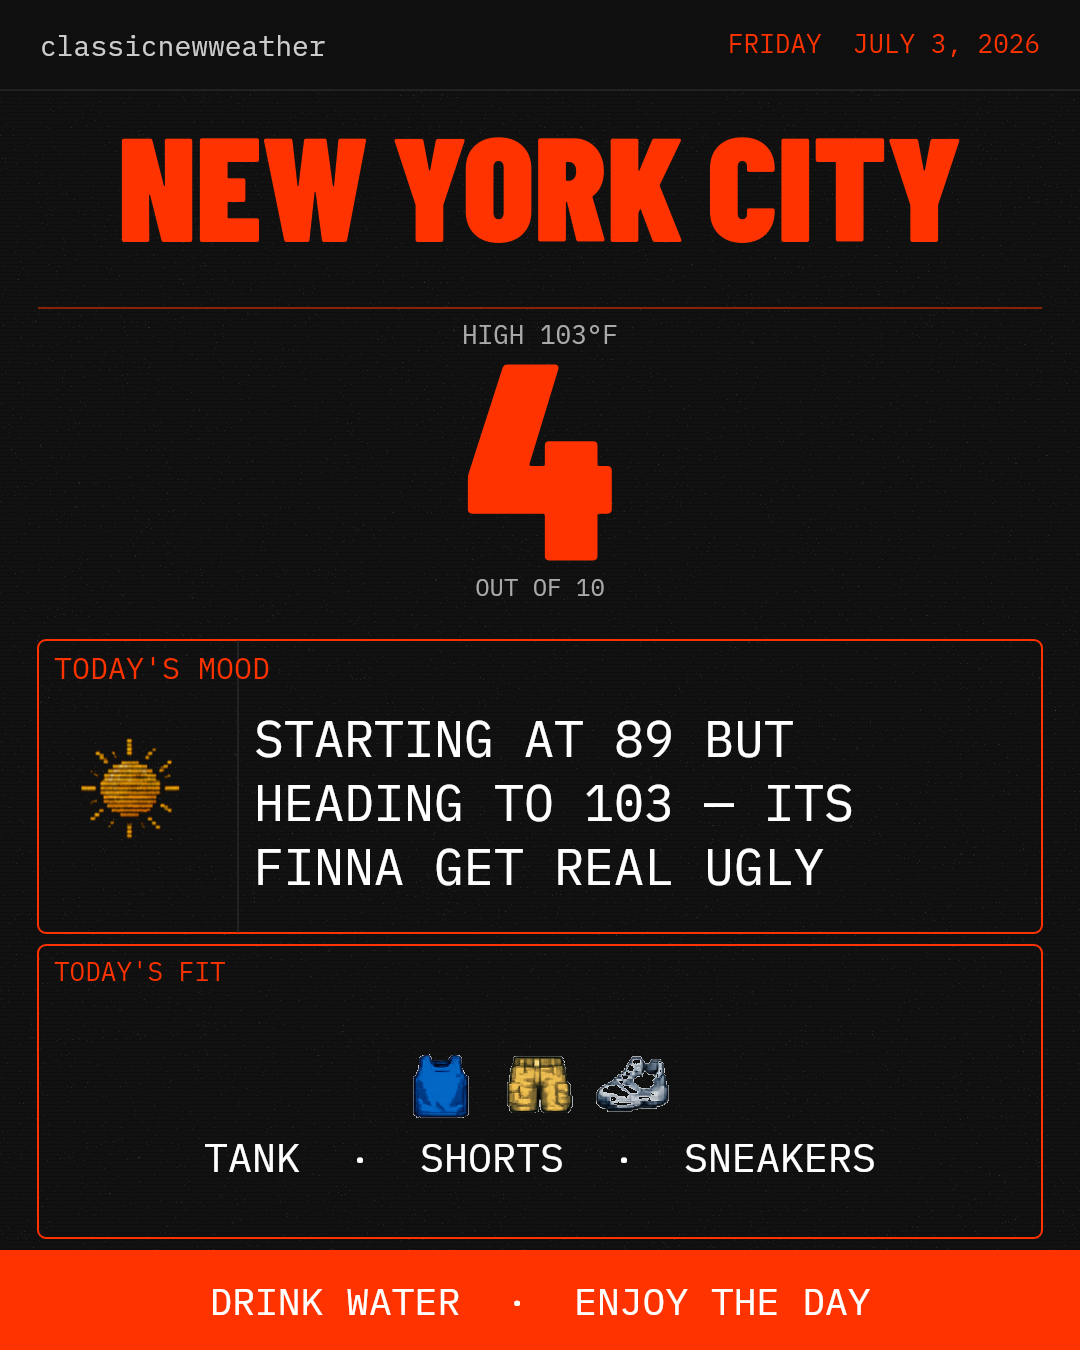
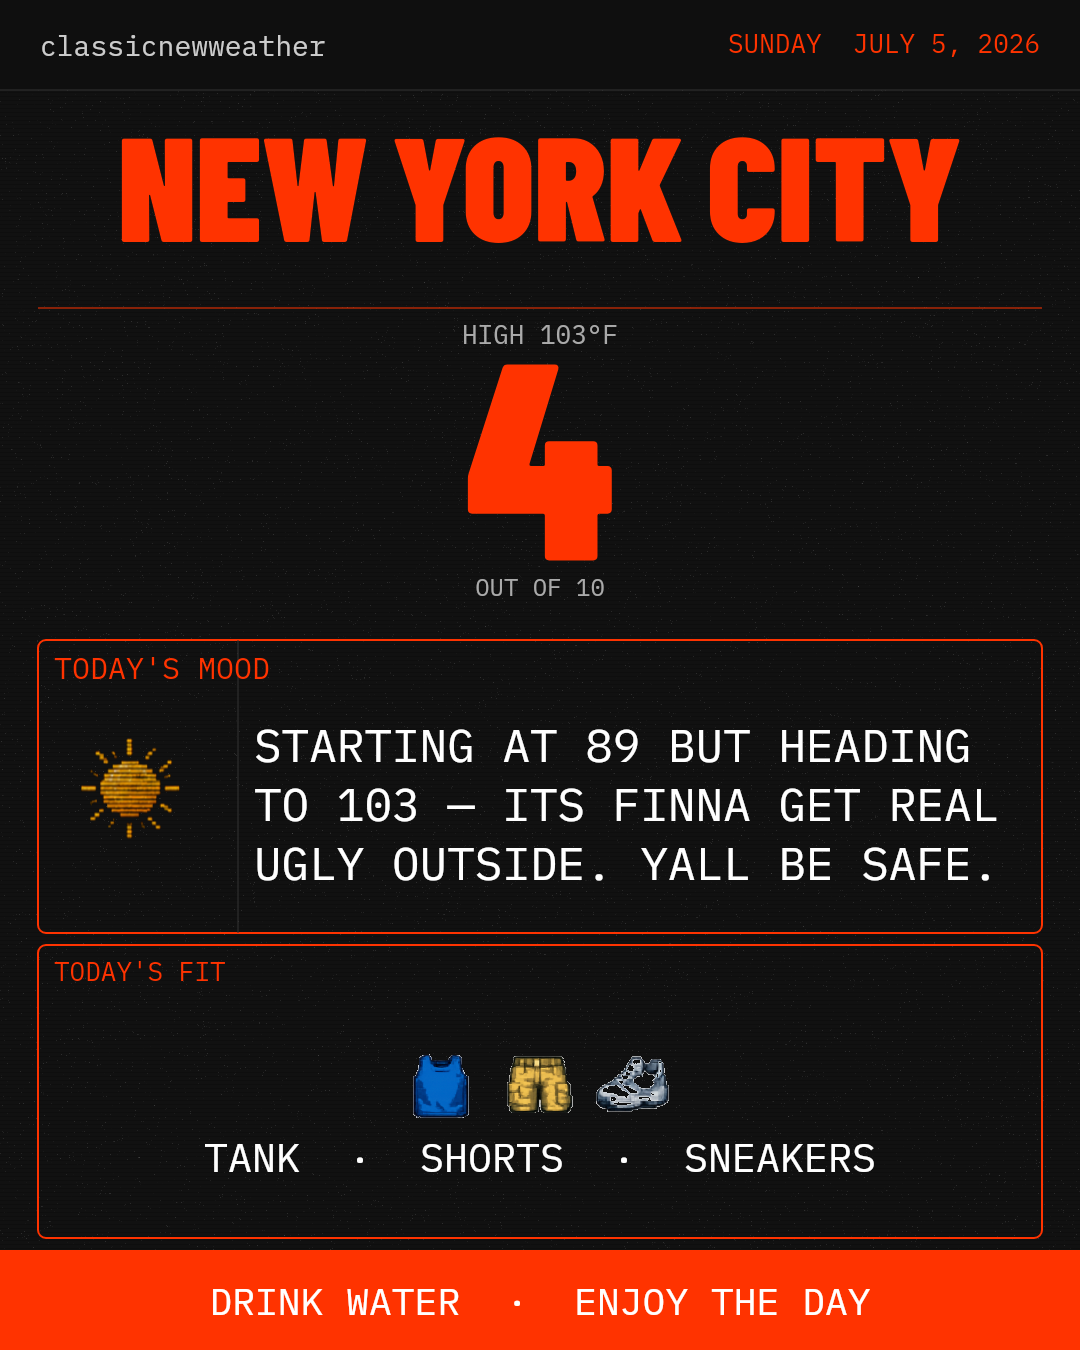
Fix auto-post cron, hair forecast thresholds, and slide 1 text overflow
- Enable IG auto-post cron at 8AM EDT; convert to background function (15min timeout)
- Fix cron auth: detect Netlify scheduled events via next_run, skip password check
- Fix hair forecast thresholds to match research table (55-64%=LOW, 65-74%=MODERATE, etc.)
- Align web app and IG graphic hair thresholds so both show same risk level
- Auto-scale TODAY'S MOOD and TODAY'S FIT text to prevent overflow on slide 1

Changed region(s): [[0.2139, 0.5289, 0.9167, 0.6533], [0.6722, 0.0311, 0.7028, 0.0622]]

diff --git a/netlify/functions/generate-ig-graphic.js b/netlify/functions/generate-ig-graphic.js
@@ -845,13 +845,32 @@ async function drawDailySlide1(row) {
   ctx.textAlign = 'left'; ctx.textBaseline = 'top';
   ctx.fillText("TODAY'S MOOD", px + 16, moodBoxY + 14);
 
-  // Body copy vertically centered in remaining space below label
+  // Body copy vertically centered in remaining space below label — auto-scale font to fit
   const moodBodyMaxW = pw - ICON_W - 28;
-  const MOOD_LINE_H  = 64;
-  ctx.font = '400 50px "IBM Plex Mono"';
   const moodText = (synopsis || 'CLASSICNEWWEATHER.COM').toUpperCase();
-  const maxMoodLines = Math.floor((moodH - MOOD_LABEL_H - 8) / MOOD_LINE_H);
   const moodWords = moodText.split(' ');
+  let moodFontSize = 50;
+  let MOOD_LINE_H = 64;
+  let maxMoodLines = 1;
+
+  // Find largest font size where all text fits within the box height
+  while (moodFontSize >= 24) {
+    MOOD_LINE_H  = Math.round(moodFontSize * 1.28);
+    maxMoodLines = Math.max(1, Math.floor((moodH - MOOD_LABEL_H - 8) / MOOD_LINE_H));
+    ctx.font = `400 ${moodFontSize}px "IBM Plex Mono"`;
+    let line = '', count = 0;
+    for (let n = 0; n < moodWords.length; n++) {
+      const test = line + moodWords[n] + ' ';
+      if (ctx.measureText(test).width > moodBodyMaxW && n > 0) { count++; line = moodWords[n] + ' '; }
+      else { line = test; }
+    }
+    if (line.trim()) count++;
+    if (count <= maxMoodLines) break;
+    moodFontSize -= 2;
+  }
+
+  // Count actual lines used for vertical centering
+  ctx.font = `400 ${moodFontSize}px "IBM Plex Mono"`;
   let moodLine = '', moodLineCount = 0;
   for (let n = 0; n < moodWords.length; n++) {
     const test = moodLine + moodWords[n] + ' ';
@@ -905,11 +924,16 @@ async function drawDailySlide1(row) {
     ctx.drawImage(fic, iconsRowX + i * (FIT_ICON_SZ + FIT_ICON_GAP), iconsRowY);
   });
 
-  // Names — centered below icons
+  // Names — centered below icons, auto-scale to fit
   const fitNamesStr = fitRep.join('  ·  ');
   ctx.fillStyle = '#fff';
-  ctx.font = '400 40px "IBM Plex Mono"';
   ctx.textAlign = 'center'; ctx.textBaseline = 'top';
+  let fitFontSize = 40;
+  ctx.font = `400 ${fitFontSize}px "IBM Plex Mono"`;
+  while (ctx.measureText(fitNamesStr).width > pw - 20 && fitFontSize > 20) {
+    fitFontSize -= 2;
+    ctx.font = `400 ${fitFontSize}px "IBM Plex Mono"`;
+  }
   ctx.fillText(fitNamesStr, px + pw / 2, iconsRowY + FIT_ICON_SZ + 14);
   ctx.textAlign = 'left';
 

diff --git a/admin.html b/admin.html
@@ -1888,20 +1888,12 @@ async function postNow() {
         headers: { 'Content-Type': 'application/json' },
         body: JSON.stringify({ password: ADMIN_PW })
       });
-      const data = await res.json();
-      if (data.error) throw new Error(data.error);
-      if (data.skipped) {
-        status.className = 'ig-queue-status';
-        status.textContent = data.reason;
-        btn.textContent = '▶ Post to IG Now';
-        btn.disabled = false;
-        return;
-      }
+      // Background function — Netlify returns 202 immediately, posts async
       status.className = 'ig-queue-status posted';
-      status.textContent = '✓ posted · feed + story live';
-      btn.textContent = '✓ Posted';
-      captionEl.textContent = data.caption;
-      captionEl.style.display = 'block';
+      status.textContent = res.status === 202
+        ? '⏳ queued — check IG in ~1 minute'
+        : '✓ posted · feed + story live';
+      btn.textContent = res.status === 202 ? '⏳ Queued' : '✓ Posted';
     }
   } catch(e) {
     status.className = 'ig-queue-status error';

diff --git a/netlify/functions/auto-post-ig.js b/netlify/functions/auto-post-ig.js
@@ -160,11 +160,12 @@ exports.handler = async (event) => {
     return { statusCode: 200, headers, body: '' };
   }
 
-  // Manual POST from admin — verify password
+  // Manual POST from admin — verify password (skip check for Netlify scheduled cron events)
   if (event.httpMethod === 'POST') {
     try {
       const body = JSON.parse(event.body || '{}');
-      if (body.password !== ADMIN_PW) {
+      const isCron = !!body.next_run; // Netlify cron events include next_run timestamp
+      if (!isCron && body.password !== ADMIN_PW) {
         return { statusCode: 401, headers, body: JSON.stringify({ error: 'Unauthorized' }) };
       }
     } catch {
